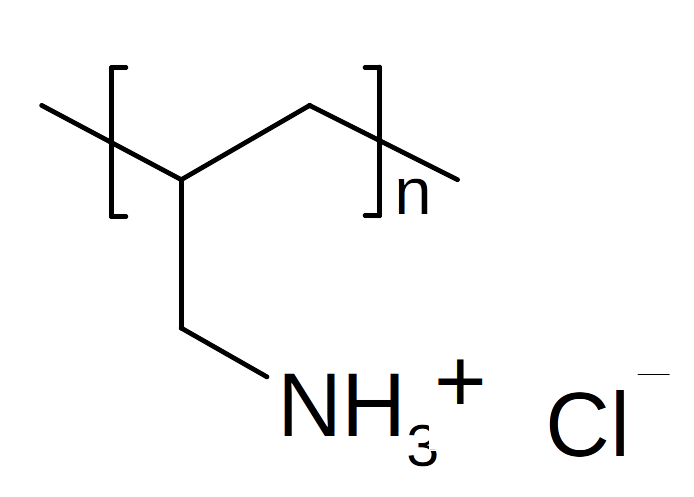
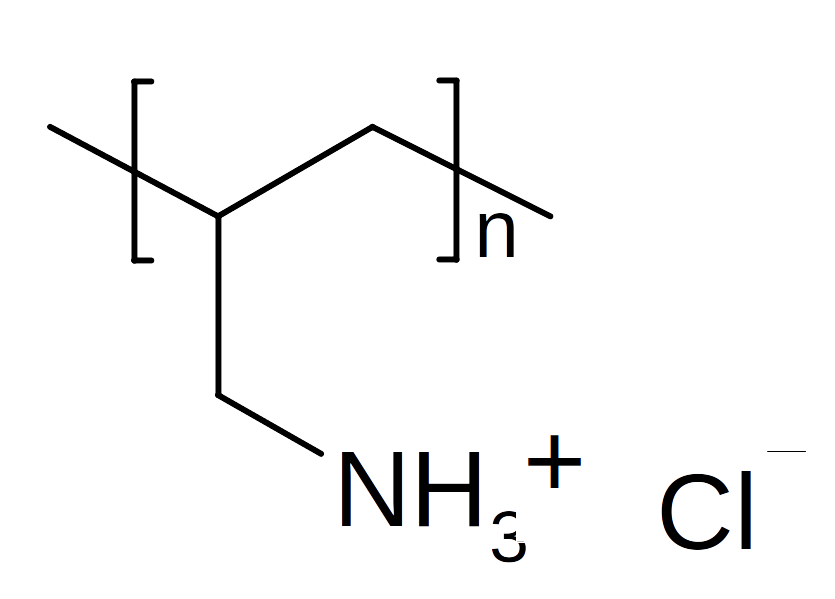
Made changes to resolution of graphics and fixed subscripted chem formulae

diff --git a/FinalCopy.tex b/FinalCopy.tex
@@ -12,6 +12,7 @@
 \newcommand{\species}[1]{\textit{#1} sp.}
 \usepackage{subcaption}
 \usepackage{cancel}
+\usepackage{multicol}
 
 
 
@@ -57,7 +58,7 @@
 \begin{document}
 
 \begin{abstract}
-Understanding the adsorption behaviour of charged self-assembling macromolecules onto surfaces is important in various applications governed by biointerfacial phenomena, soft matter films fabrication, and biomedical engineering of tissue scaffolds.  We study here the role of polyelectrolyte chain length in the competitive adsorption of a simple model polyanion, poly(acrylic acid), onto silica particles capped with a model polycation, poly(allylamine hydrochloride).  Theoretical calculations for neutral polymers show that there is preferential adsorption that is dependant on the chain length, number of mers, of the polymer.  We have performed fluorescence experiments to observe chain-length dependence of polyelectrolyte adsorption onto an oppositely charged polyelectrolyte covering a spherical silica nanoparticle surface in dilute aqueous solution conditions.  Preferential adsorption was measured by comparing the fluorescence intensities  of the  two  fluorophore-labeled  (NMA-PAA$_{450K}$,  and Dan-PAA$_{2K}$) polyacrylic acid samples specific for 450K and 2K-mers, respectively.  To validate experimental results, a computational model was developed that examined the entropy probability between the different arrangements of two polymer length chains of polyacrylic  acid  on  the  surface  of  the  silica  nanoparticles.   This  was  done  by  comparing every scenario of surface coverage, using the associated likelihood of its occurrence.  Both spectroscopic experiment results and the combinatorial model demonstrated that there is an entropic preference for complete adsorption of the longer 450K-mers polyacrylic acid chain  vs  2K-mers. This study provides insights on entropy driven chain-length  dependence  in  layer by layer assembly, enabling optimization of industrial processes and developments of polyelectolyte membranes and coatings.  
+Understanding the adsorption behaviour of charged self-assembling macromolecules onto surfaces is important in various applications governed by biointerfacial phenomena, soft matter films fabrication, and biomedical engineering of tissue scaffolds.  We study here the role of polyelectrolyte chain length in the competitive adsorption of a simple model polyanion, poly(acrylic acid), onto silica particles capped with a model polycation, poly(allylamine hydrochloride).  Theoretical calculations for neutral polymers show that there is preferential adsorption that is dependant on the chain length, number of mers, of the polymer.  We have performed fluorescence experiments to observe chain-length dependence of polyelectrolyte adsorption onto an oppositely charged polyelectrolyte covering a spherical silica nanoparticle surface in dilute aqueous solution conditions.  Preferential adsorption was measured by comparing the fluorescence intensities  of the  two  fluorophore-labeled  (NMA-PAA\textsubscript{450K},  and Dan-PAA\textsubscript{}2K) polyacrylic acid samples specific for 450K and 2K-mers, respectively.  To validate experimental results, a computational model was developed that examined the entropy probability between the different arrangements of two polymer length chains of polyacrylic  acid  on  the  surface  of  the  silica  nanoparticles.   This  was  done  by  comparing every scenario of surface coverage, using the associated likelihood of its occurrence.  Both spectroscopic experiment results and the combinatorial model demonstrated that there is an entropic preference for complete adsorption of the longer 450K-mers polyacrylic acid chain  vs  2K-mers. This study provides insights on entropy driven chain-length  dependence  in  layer by layer assembly, enabling optimization of industrial processes and developments of polyelectolyte membranes and coatings.  
 
 % We study the role of polyelectrolyte chain length in the adsorption of a simple model polyanion, poly(acrylic acid) onto silica particles capped with a model polycation, poly(allylamine hydrochloride). 
 % %%moved it up here (1)
@@ -101,41 +102,41 @@ In this study, we examine the role of polyelectrolyte chain length in the adsorp
 
 \subsubsection{3.1.1 Materials}
 
-We used poly(allylamine hydrochloride) (PAH) as received from Polysciences, Inc. Poly(acrylic acid sodium salt) (PAA) of two different molecular weights ($M_{w}$ 2K and 450K) was purchased from Sigma-Aldrich and modified as described in section 5.3.2.  The two different molecular weights of PAA were chosen based on the large difference in the average chain length (i.e., by greater than 2 orders of magnitude).  Furthermore, dynamic light scattering characterization (Brookhaven BI9000; Thorn EMI Electron B2FBK RFI photomultiplier tube; Coherent Technologies Compass 315M-150 laser) of the low and high molecular weight PAA, showed very little overlap in the histograms of the hydrodynamic radius of the polymers under the solution conditions used for the adsorption experiments.  Chemical structures for the polycation, unmodified polyanion, 
+We used poly(allylamine hydrochloride) (PAH) as received from Polysciences, Inc. Poly(acrylic acid sodium salt) (PAA) of two different molecular weights (M\textsubscript{W} 2K and 450K) was purchased from Sigma-Aldrich and modified as described in section 5.3.2.  The two different molecular weights of PAA were chosen based on the large difference in the average chain length (i.e., by greater than 2 orders of magnitude).  Furthermore, dynamic light scattering characterization (Brookhaven BI9000; Thorn EMI Electron B2FBK RFI photomultiplier tube; Coherent Technologies Compass 315M-150 laser) of the low and high molecular weight PAA, showed very little overlap in the histograms of the hydrodynamic radius of the polymers under the solution conditions used for the adsorption experiments.  Chemical structures for the polycation, unmodified polyanion, 
 
 %I don't know how to bruteforce this formatting issue above ( I am following the formatting given by the original manuscript
 \begin{figure}[H]
-    \begin{subfigure}[b]{0.3\textwidth}
-        \includegraphics[scale=0.4]{fig1A.png}
+    \begin{subfigure}[b]{0.35\textwidth}
+        \includegraphics[scale=0.35]{fig1A.png}
         \caption{}
         \label{fig:A}
     \end{subfigure}
-    \begin{subfigure}[b]{0.3\textwidth}
-        \includegraphics[scale=0.25]{fig1B.png}
+    \begin{subfigure}[b]{0.35\textwidth}
+        \includegraphics[scale=0.35]{fig1B.png}
         \caption{}
         \label{fig:B}
     \end{subfigure}
-    \begin{subfigure}[b]{0.3\textwidth}
+    \begin{subfigure}[b]{0.35\textwidth}
         \includegraphics[scale=0.5]{fig1C.png}
         \caption{}
         \label{fig:C}
     \end{subfigure}
-    \begin{subfigure}[b]{0.3\textwidth}
-        \includegraphics[scale=0.5]{fig1D.png}
+    \begin{subfigure}[b]{0.35\textwidth}
+        \includegraphics[scale=0.7]{fig1D.png}
         \caption{}
         \label{fig:D}
     \end{subfigure}
-    \begin{subfigure}[b]{0.3\textwidth}
-        \includegraphics[scale=0.5]{fig1E.png}
+    \begin{subfigure}[b]{0.35\textwidth}
+        \includegraphics[scale=0.85]{fig1E.png}
         \caption{}
         \label{fig:E}
     \end{subfigure}
-    \begin{subfigure}[b]{0.3\textwidth}
-        \includegraphics[scale=0.5]{fig1E.png}
+    \begin{subfigure}[b]{0.35\textwidth}
+        \includegraphics[scale=0.85]{fig1E.png}
         \caption{}
         \label{fig:f}
     \end{subfigure}
-    \caption{Structures of the polyelectrolytes used are: a. poly(allylamine hydrochloride), and b. poly(acrylic acid sodium salt).  Fluorophores used to label the polyanion are: c. 1-naphthalmethylamine, and d. dansyl ethylenediamine (D112).  Structures of labeled poly(acrylic acid) are: e. $NMA-PAA_{450K}$, and f. $Dan-PAA_{2K}$ }
+    \caption{Structures of the polyelectrolytes used are: a. poly(allylamine hydrochloride), and b. poly(acrylic acid sodium salt).  Fluorophores used to label the polyanion are: c. 1-naphthalmethylamine, and d. dansyl ethylenediamine (D112).  Structures of labeled poly(acrylic acid) are: e. NMA-PAA\textsubscript{450K}, and f. Dan-PAA\textsubscript{2K} }
     \label{figure 1}
 \end{figure}
 
@@ -147,7 +148,7 @@ Two naphthalene-based fluorophores with amine functional groups, 5-dimethylamino
 
 Through a method previously described, \cite{weber1954fluorescent,Anghel1998} partial conversion of the carboxylic acid units of the 2K and 450K PAA to amide derivatives (amidization) was achieved in two separate reactions as follows:  Inside a dry three-neck flask attached to a condenser, vacuum dried PAA (2.0 g) was mixed with an anhydrous solvent, 1-methylpyrolidone (approximately 100 ml), in the presence of flowing nitrogen.  The mixture was stirred to allow for dissolution (in the case of 2K PAA) or additionally heated to $60^{\circ}$C for 2 hr (in the case of 450 K) to promote dissolution.  In a dry and nitrogen-rinsed flask, the fluorophore (7.0 $\times$ $10^{-4}$ mol) was dissolved in some 1-methylpyrolidone (approximately 5 ml) and injected into the PAA reaction pot.  Subsequently, dicyclohexylcarbodiimide (DCC, 8.0 $\times$ $10^{-4}$ mol), a coupling agent commonly used to promote amide formation was also injected into the reaction mixture upon dissolving in dry 1-methylphyrolidone (approximately 5 ml).  The use of an aprotic solvent, 1-methylphyrolidone, and DCC promotes the random covalent attachment of the hydrophobic fluorophores onto PAA.\cite{Anghel1998}  The final mixture was stirred in the dark at $60^{\circ}$C for 96 hr.  The reaction flask was then cooled in an ice bath, and concentrated NaOH was added dropwise to neutralize the solution, which resulted in precipitation of the sodium salt of the modified PAA.  The solid product was obtained by vacuum filtration and subsequently purified by twice precipitating an aqueous solution in methanol.  All solvents were removed to yield the final product by drying in a vacuum oven.
 
-Both the unmodified and labeled PAA were characterized by $^{1}H$ NMR (300 MHz Varian Mercury) performed in $D_2O$.  In the case of 1-naphthalmethylamine-labeled PAA (NMA-$PAA_{450K}$) NMR spectrum analysis shows the expected ratio of naphthalene (7) and amide (1) protons at chemical shifts of 7-8 ppm while the alpha aromatic proton (1) appears at 4.7 ppm.  In unmodified PAA, only methylene protons from the backbone (1-2.3 ppm) appear in the NMR spectrum.  The NMR spectrum of dansyl ethylenediamine-labeled PAA (Dan-$PAA_{2K}$) also reveals the expected chemical shifts at 7.2-8.3 ppm from the aromatic protons of the fluorophore, and the ,  methylene protons (4) from the amide link at around 3.4 ppm.  Both UV-vis absorption (Varian Cary 300-Bio Spectrophotometer), and $^{1}H$ NMR spectral analysis of the final product suggested little contamination of labeled PAA and the degree of modification was calculated by integration of the $^{1}H$ NMR spectral peaks.  It was determined that PAA of 450 K was 3.8 mol\% modified while 4 mol\% of the 2 K PAA was labeled.  The degree of derivatization of PAA was kept at a low value to prevent interference from the hydrophobic fluorescent tags on the electrostatic adsorption of the polyelectrolyte.  Fluorescence intensity calibration plots at variable concentration of $NMA-PAA_{450K}$ and $Dan-PAA_{2K}$ were prepared using a FluoroMax-2 (Jobin Yvon-SPEX; slit width set to 2.5 cm). 
+Both the unmodified and labeled PAA were characterized by $^{1}H$ NMR (300 MHz Varian Mercury) performed in $D_2O$.  In the case of 1-naphthalmethylamine-labeled PAA (NMA-$PAA_{450K}$) NMR spectrum analysis shows the expected ratio of naphthalene (7) and amide (1) protons at chemical shifts of 7-8 ppm while the alpha aromatic proton (1) appears at 4.7 ppm.  In unmodified PAA, only methylene protons from the backbone (1-2.3 ppm) appear in the NMR spectrum.  The NMR spectrum of dansyl ethylenediamine-labeled PAA (Dan-$PAA_{2K}$) also reveals the expected chemical shifts at 7.2-8.3 ppm from the aromatic protons of the fluorophore, and the ,  methylene protons (4) from the amide link at around 3.4 ppm.  Both UV-vis absorption (Varian Cary 300-Bio Spectrophotometer), and $^{1}H$ NMR spectral analysis of the final product suggested little contamination of labeled PAA and the degree of modification was calculated by integration of the $^{1}H$ NMR spectral peaks.  It was determined that PAA of 450 K was 3.8 mol\% modified while 4 mol\% of the 2 K PAA was labeled.  The degree of derivatization of PAA was kept at a low value to prevent interference from the hydrophobic fluorescent tags on the electrostatic adsorption of the polyelectrolyte.  Fluorescence intensity calibration plots at variable concentration of NMA-PAA\textsubscript{450K} and Dan-PAA\textsubscript{2K} were prepared using a FluoroMax-2 (Jobin Yvon-SPEX; slit width set to 2.5 cm). 
 
 \subsubsection{3.1.3a Preliminary Adsorption of PAH onto Colloids}
 
@@ -155,7 +156,7 @@ An excess amount of the polycation layer, poly(allylamine hydrochloride), was fi
 
 \subsubsection{3.1.3b Competitive Adsorption of PAA onto a PAH-Coated Surface}
 
-The competitive adsorption of long (450 K) versus short (2 K) chains of PAA was examined by supplying in solution a stoichiometric surface coverage amount of each of $Dan-PAA_{2K}$ and $NMA-PAA_{450K}$ to 2.0 g/L of PAH-coated particles.  This required surface coverage amount of polyelectrolyte (3-5 $\times$ $10^{-4}$ M repeat units of each type of PAA) for 2.0 g/L of PAH-coated particles was determined from quantitative titrations of PAH/PAA-coated particles with poly(diallyldimethyl-ammonium chloride) (PDAC).\cite{Burke2003}   The molar concentration of labeled PAA necessary to cover the PAH surface (3-5 $\times$ $10^{-4}$ M for 2.0 g/L of particles) was obtained by converting the bare mass of titrant (PDAC) required to achieve charge overcompensation, and thus multilayer formation, to a molar surface coverage value (as determined by $\zeta$ potential measurements).\cite{Burke2003}   Specifically, this point refers to the mass of titrant at the initial plateau point after the half neutralization point in the titration curve (i.e., 0.05g/L of PDAC for 2.0 g/L of coated particles).  Although this estimation of the surface coverage value is based on a titration experiment involving a different polyelectrolyte than that used in our experiment, it provides a reasonable approximation of the required coverage amount.  Furthermore, the titration experiment was performed under comparable solution conditions to our PAA adsorption study (1mM NaCl and solution pH = 9) and in both cases the adsorbing polyelectrolyte is strongly charged.  Thus, assuming that the adsorption isotherms are comparable, the error in determining the surface coverage value is estimated to be in the range of the experimental uncertainty reported in the titration study, $\pm$ 9.6 \%.  We allowed 24 h to ensure coverage adsorption of the labeled PAA onto PAH since previous PAH/PAA multilayer studies have shown significant time-dependent adsorption at low polyelectrolyte concentrations (i.e., $<10^{-3}$ M).\cite{Mermut2003}
+The competitive adsorption of long (450 K) versus short (2 K) chains of PAA was examined by supplying in solution a stoichiometric surface coverage amount of each of Dan-PAA\textsubscript{2K} and NMA-PAA\textsubscript{450K} to 2.0 g/L of PAH-coated particles.  This required surface coverage amount of polyelectrolyte (3-5 $\times$ $10^{-4}$ M repeat units of each type of PAA) for 2.0 g/L of PAH-coated particles was determined from quantitative titrations of PAH/PAA-coated particles with poly(diallyldimethyl-ammonium chloride) (PDAC).\cite{Burke2003}   The molar concentration of labeled PAA necessary to cover the PAH surface (3-5 $\times$ $10^{-4}$ M for 2.0 g/L of particles) was obtained by converting the bare mass of titrant (PDAC) required to achieve charge overcompensation, and thus multilayer formation, to a molar surface coverage value (as determined by $\zeta$ potential measurements).\cite{Burke2003}   Specifically, this point refers to the mass of titrant at the initial plateau point after the half neutralization point in the titration curve (i.e., 0.05g/L of PDAC for 2.0 g/L of coated particles).  Although this estimation of the surface coverage value is based on a titration experiment involving a different polyelectrolyte than that used in our experiment, it provides a reasonable approximation of the required coverage amount.  Furthermore, the titration experiment was performed under comparable solution conditions to our PAA adsorption study (1mM NaCl and solution pH = 9) and in both cases the adsorbing polyelectrolyte is strongly charged.  Thus, assuming that the adsorption isotherms are comparable, the error in determining the surface coverage value is estimated to be in the range of the experimental uncertainty reported in the titration study, $\pm$ 9.6 \%.  We allowed 24 h to ensure coverage adsorption of the labeled PAA onto PAH since previous PAH/PAA multilayer studies have shown significant time-dependent adsorption at low polyelectrolyte concentrations (i.e., $<10^{-3}$ M).\cite{Mermut2003}
 
 \subsubsection{3.2 Theoretical}
 
@@ -537,18 +538,18 @@ which tells us that only a small fraction of the surface is covered by short pol
 As shown in Figure 4.2, we initially characterized the fluorescence emission intensity of the labels on the short- and long-chain PAA in solution.  Fluorescence spectra
 
 \begin{figure}[H]
-\includegraphics[scale=0.5]{fig2.png}
-\caption{Fluorescence emission spectra obtained for variable concentration of: a. short-chain labeled PAA ($Dan-PAA_{2K}$), and b. long-chain labeled PAA ($NMA-PAA_{450K}$) in water.}
+\includegraphics[scale=0.65]{Slide1.jpg}
+\caption{Fluorescence emission spectra obtained for variable concentration of: a. short-chain labeled PAA (Dan-PAA\textsubscript{2K}), and b. long-chain labeled PAA (NMA-PAA\textsubscript{450K}) in water.}
 \label{figure 2}
 \end{figure}
 
-were acquired for $NMA-PAA_{450K}$ (by excitation at $\lambda_{Ex}$ = 290 nm; emission at $\lambda_{Em}$ = 340),\cite{Anghel1998} and $Dan-PAA_{2K}$ (by excitation at $\lambda_{Ex}$ = 335 nm; emission at $\lambda_{Em}$ = 550 nm)\cite{Bednar1985} in the concentration range of $10^{-1}$ to $10^{-5}$ g/L of PAA.  Note that the sharp peaks centered at twice the excitation wavelength, 580 nm (in the $NMA-PAA_{450K}$ sample) and 670 nm (in the $Dan-PAA_{2K}$ sample), are instrumental artefacts.  Specifically, they are scattered light transmitted as the second order diffraction of the emission monochromator. 
+were acquired for NMA-PAA\textsubscript{450K} (by excitation at $\lambda_{Ex}$ = 290 nm; emission at $\lambda_{Em}$ = 340),\cite{Anghel1998} and Dan-PAA\textsubscript{2K} (by excitation at $\lambda_{Ex}$ = 335 nm; emission at $\lambda_{Em}$ = 550 nm)\cite{Bednar1985} in the concentration range of $10^{-1}$ to $10^{-5}$ g/L of PAA.  Note that the sharp peaks centered at twice the excitation wavelength, 580 nm (in the NMA-PAA\textsubscript{450K} sample) and 670 nm (in the Dan-PAA\textsubscript{2K} sample), are instrumental artefacts.  Specifically, they are scattered light transmitted as the second order diffraction of the emission monochromator. 
 
-We compared the fluorescence intensity of the two fluorophore-labeled PAA samples, at the peak maximum.  Although both of the PAA samples were modified by approximately 4\% fluorophores, the fluorescence intensity exhibited by $NMA-PAA_{450K}$ was found to be greater by an order of magnitude than that of $Dan-PAA_{2K}$ prepared at an identical solution concentration.  The smaller fluorescence signal from the $Dan-PAA_{2K}$ is attributed to the dansyl fluorophore, which is known to fluoresce much less intensely in water as compared to nonpolar organic solutions.\cite{weber1954fluorescent,Bednar1985,Chen1983}  A fluorescence signal for both samples, however, was detectable at concentrations above the critical coverage adsorption concentration used for the study ($10^{-4}$ M).  As indicated in Figure 3, we also determined that there was no significant quenching of one fluorophore by the other, by obtaining the fluorescence spectrum of a mixed sample of both $NMA-PAA_{450K}$ and $Dan-PAA_{2K}$ in solution at identical concentrations of 5.0 $\times$ $10^{-3}$ g/L (above the coverage concentration).  From Figure 3, the relative ratio of the $NMA-PAA_{450K}$ to $Dan-PAA_{2K}$ emission peak in the mixed solution was determined as 13:1.  The relative fluorescence intensity of $NMA-PAA_{450K}$ to $Dan-PAA_{2K}$ obtained from isolated solutions was similar to that of the mixed PAA solution indicating that the emission of one fluorophore did not perturb the emission of the other by any measurable amount. (Figure 3).
+We compared the fluorescence intensity of the two fluorophore-labeled PAA samples, at the peak maximum.  Although both of the PAA samples were modified by approximately 4\% fluorophores, the fluorescence intensity exhibited by NMA-PAA\textsubscript{450K} was found to be greater by an order of magnitude than that of Dan-PAA\textsubscript{2K} prepared at an identical solution concentration.  The smaller fluorescence signal from the Dan-PAA\textsubscript{2K} is attributed to the dansyl fluorophore, which is known to fluoresce much less intensely in water as compared to nonpolar organic solutions.\cite{weber1954fluorescent,Bednar1985,Chen1983}  A fluorescence signal for both samples, however, was detectable at concentrations above the critical coverage adsorption concentration used for the study ($10^{-4}$ M).  As indicated in Figure 3, we also determined that there was no significant quenching of one fluorophore by the other, by obtaining the fluorescence spectrum of a mixed sample of both NMA-PAA\textsubscript{450K} and Dan-PAA\textsubscript{2K} in solution at identical concentrations of 5.0 $\times$ $10^{-3}$ g/L (above the coverage concentration).  From Figure 3, the relative ratio of the NMA-PAA\textsubscript{450K} to Dan-PAA\textsubscript{2K} emission peak in the mixed solution was determined as 13:1.  The relative fluorescence intensity of NMA-PAA\textsubscript{450K} to Dan-PAA\textsubscript{2K} obtained from isolated solutions was similar to that of the mixed PAA solution indicating that the emission of one fluorophore did not perturb the emission of the other by any measurable amount. (Figure 3).
 
 \begin{figure}[H]
 \includegraphics[scale=2.0]{fig3.png}
-\caption{Pre-adsorbed fluorescence spectrum of a mixed solution containing 5.0 × 10–3 g/L of each of $NMA-PAA_{450K}$ ($\lambda_{Ex}$ = 290 nm), and $Dan-PAA_{2K}$ ($\lambda_{Ex}$ = 335 nm).  Emission intensity ratio of $NMA-PAA_{450K}$ to $Dan-PAA_{2K}$  is 13:1.}
+\caption{Pre-adsorbed fluorescence spectrum of a mixed solution containing 5.0 × 10–3 g/L of each of NMA-PAA\textsubscript{450K} ($\lambda_{Ex}$ = 290 nm), and Dan-PAA\textsubscript{2K} ($\lambda_{Ex}$ = 335 nm).  Emission intensity ratio of NMA-PAA\textsubscript{450K} to Dan-PAA\textsubscript{2K}  is 13:1.}
 \label{figure 3}
 \end{figure}
 
@@ -559,25 +560,25 @@ Successful adsorption of PAA onto a PAH coated surface is known from previous $\
 
 \begin{figure}[H]
 \includegraphics[scale=3.0]{fig4.png}
-\caption{Possible extreme results for the competitive adsorption experiment of PAA onto PAH-coated particles.  The two extreme cases show preference of the surface for only the short chains (emission only at $\lambda_{Em}$ = 550 from adsorbed $Dan-PAA_{2K}$), or solely the long chains (emission only at $\lambda_{Em}$ = 550 from adsorbed $NMA-PAA_{450K}$).  The third intermediate case (not shown) is that of indifferent adsorption.}
+\caption{Possible extreme results for the competitive adsorption experiment of PAA onto PAH-coated particles.  The two extreme cases show preference of the surface for only the short chains (emission only at $\lambda_{Em}$ = 550 from adsorbed Dan-PAA\textsubscript{2K}), or solely the long chains (emission only at $\lambda_{Em}$ = 550 from adsorbed NMA-PAA\textsubscript{450K}).  The third intermediate case (not shown) is that of indifferent adsorption.}
 \label{figure 4}
 \end{figure}
 
-fluorescence signal to identify preferential adsorption. Figure 4 illustrates the two extreme outcomes for this competitive adsorption study.  Given an identical concentration of repeat units, the two extreme cases involve either sole preference for shorter chains of PAA (i.e., Case 1, where fluorescence is only detected from $Dan-PAA_{2K}$) or the longer ones (i.e., Case 2, where only NMA-PAA450 fluorescence is observed).  A third possible scenario is that of an unbiased adsorption of both short and long chains, in which no change in the relative fluorescence signals would be expected before and after the adsorption. 
+fluorescence signal to identify preferential adsorption. Figure 4 illustrates the two extreme outcomes for this competitive adsorption study.  Given an identical concentration of repeat units, the two extreme cases involve either sole preference for shorter chains of PAA (i.e., Case 1, where fluorescence is only detected from Dan-PAA\textsubscript{2K}) or the longer ones (i.e., Case 2, where only NMA-PAA\textsubscript{450} fluorescence is observed).  A third possible scenario is that of an unbiased adsorption of both short and long chains, in which no change in the relative fluorescence signals would be expected before and after the adsorption. 
 
-Although previous studies examining the preparation of PAH/PAA multilayers suggest adsorption times on the order of tens of minutes, (supplying excess concentration of the adsorbing polyelectrolyte), we allowed 24 h for the competitive adsorption study of PAA since here, we supply only a minimum coverage concentration of short and of long chains of PAA.  After 24 h, we examined the fluorescence of both the PAA/PAH-coated particles (thoroughly rinsed free of excess polymer), and the remaining unadsorbed PAA in the supernatant.  Figure 5 shows the relative fluorescence intensity obtained for the labeled PAA adsorbed on the particles while Figure 6 shows that of the unadsorbed PAA remaining in the supernatant.  After exciting both fluorophores on the particles, no detectable fluorescence emission from $Dan-PAA_{2K}$ at $\lambda_{Em}$ = 550 nm was observed.  However, the particles did exhibit a strong emission signal from at $\lambda_{Em}$ = 340 nm.  Similar inspection of the supernatant indicated an opposite trend, where we observed significant fluorescence from $Dan-PAA_{2K}$.  Furthermore the intensity ratio of NMA-PAA450: $Dan-PAA_{2K}$ in the supernatant was 3.4:1, which was significantly less than the original pre-adsorption ratio of 13:1.  Fluorescence analysis of both the PAA adsorbed 
+Although previous studies examining the preparation of PAH/PAA multilayers suggest adsorption times on the order of tens of minutes, (supplying excess concentration of the adsorbing polyelectrolyte), we allowed 24 h for the competitive adsorption study of PAA since here, we supply only a minimum coverage concentration of short and of long chains of PAA.  After 24 h, we examined the fluorescence of both the PAA/PAH-coated particles (thoroughly rinsed free of excess polymer), and the remaining unadsorbed PAA in the supernatant.  Figure 5 shows the relative fluorescence intensity obtained for the labeled PAA adsorbed on the particles while Figure 6 shows that of the unadsorbed PAA remaining in the supernatant.  After exciting both fluorophores on the particles, no detectable fluorescence emission from Dan-PAA\textsubscript{2K} at $\lambda_{Em}$ = 550 nm was observed.  However, the particles did exhibit a strong emission signal from at $\lambda_{Em}$ = 340 nm.  Similar inspection of the supernatant indicated an opposite trend, where we observed significant fluorescence from Dan-PAA\textsubscript{2K}.  Furthermore the intensity ratio of NMA-PAA450: Dan-PAA\textsubscript{2K} in the supernatant was 3.4:1, which was significantly less than the original pre-adsorption ratio of 13:1.  Fluorescence analysis of both the PAA adsorbed 
 
 
 \begin{figure}[H]
 \includegraphics[scale=1.75]{fig5.png}
-\caption{Fluorescence emission spectra obtained for variable concentration of: a. short-chain labeled PAA ($Dan-PAA_{2K}$), and b. long-chain labeled PAA ($NMA-PAA_{450K}$) in water.}
+\caption{Fluorescence emission spectra obtained for variable concentration of: a. short-chain labeled PAA (Dan-PAA\textsubscript{2K}), and b. long-chain labeled PAA (NMA-PAA\textsubscript{450K}) in water.}
 \label{figure 5}
 \end{figure}
 
 
 \begin{figure}[H]
 \includegraphics[scale=1.75]{fig6.png}
-\caption{Fluorescence emission spectra obtained for variable concentration of: a. short-chain labeled PAA ($Dan-PAA_{2K}$), and b. long-chain labeled PAA ($NMA-PAA_{450K}$) in water.}
+\caption{Fluorescence emission spectra obtained for variable concentration of: a. short-chain labeled PAA (Dan-PAA\textsubscript{2K}), and b. long-chain labeled PAA (NMA-PAA\textsubscript{450K}) in water.}
 \label{figure 6}
 \end{figure}
 
@@ -629,7 +630,7 @@ This implies that the system has a preference for full coverage of colloid surfa
 
 
 \begin{figure}[H]
-\includegraphics[scale=0.50]{fig11.png}
+\includegraphics[scale=0.10]{Figure_1.jpg}
 \caption{Ratio of Probabilities as a function of number of long-chain mers bound to the colloid surface}
 \label{figure 11}
 \end{figure}
